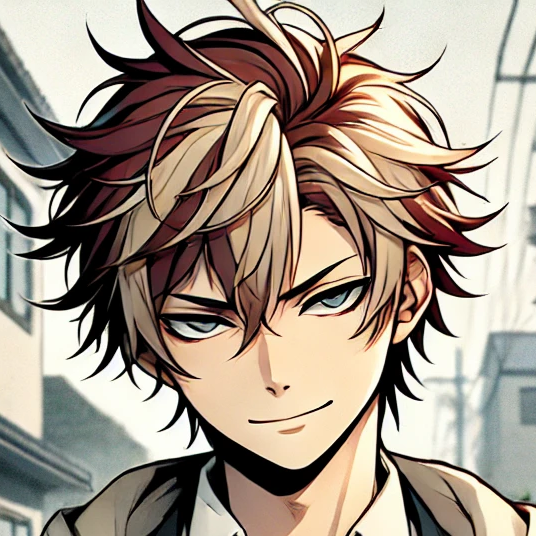
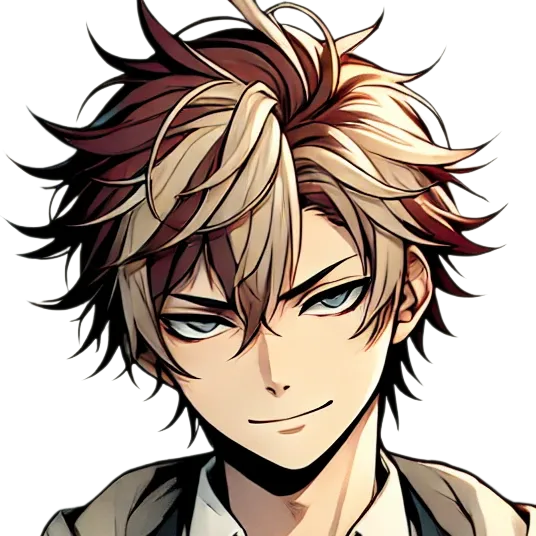
push

Changed region(s): [[0.4776, 0.0, 1.0, 0.9552], [0.0, 0.0, 0.4776, 1.0]]

diff --git a/WebsiteApi/Bot.cs b/WebsiteApi/Bot.cs
@@ -33,7 +33,36 @@ public static class Bot
 
     private static async Task DoShitAsync()
     {
-        
+        // Set the directory path where your images are stored
+        string directoryPath = @"C:\Users\theiz\Downloads\Transparent"; 
+
+        // Get all the files in the directory
+        var files = Directory.GetFiles(directoryPath, "*-fococlipping-HD*");
+
+        foreach (var file in files)
+        {
+            // Get the file name without the directory path
+            string fileName = Path.GetFileName(file);
+
+            // Remove the unwanted part from the file name
+            string newFileName = fileName.Replace("-fococlipping-HD", "");
+
+            // Combine the directory path and the new file name
+            string newFilePath = Path.Combine(directoryPath, newFileName);
+
+            try
+            {
+                // Rename the file
+                File.Move(file, newFilePath);
+                Console.WriteLine($"Renamed: {fileName} -> {newFileName}");
+            }
+            catch (Exception ex)
+            {
+                Console.WriteLine($"Failed to rename {fileName}: {ex.Message}");
+            }
+        }
+
+        Console.WriteLine("Renaming process completed.");
     }
 
     private static async Task Main(string[] args)
